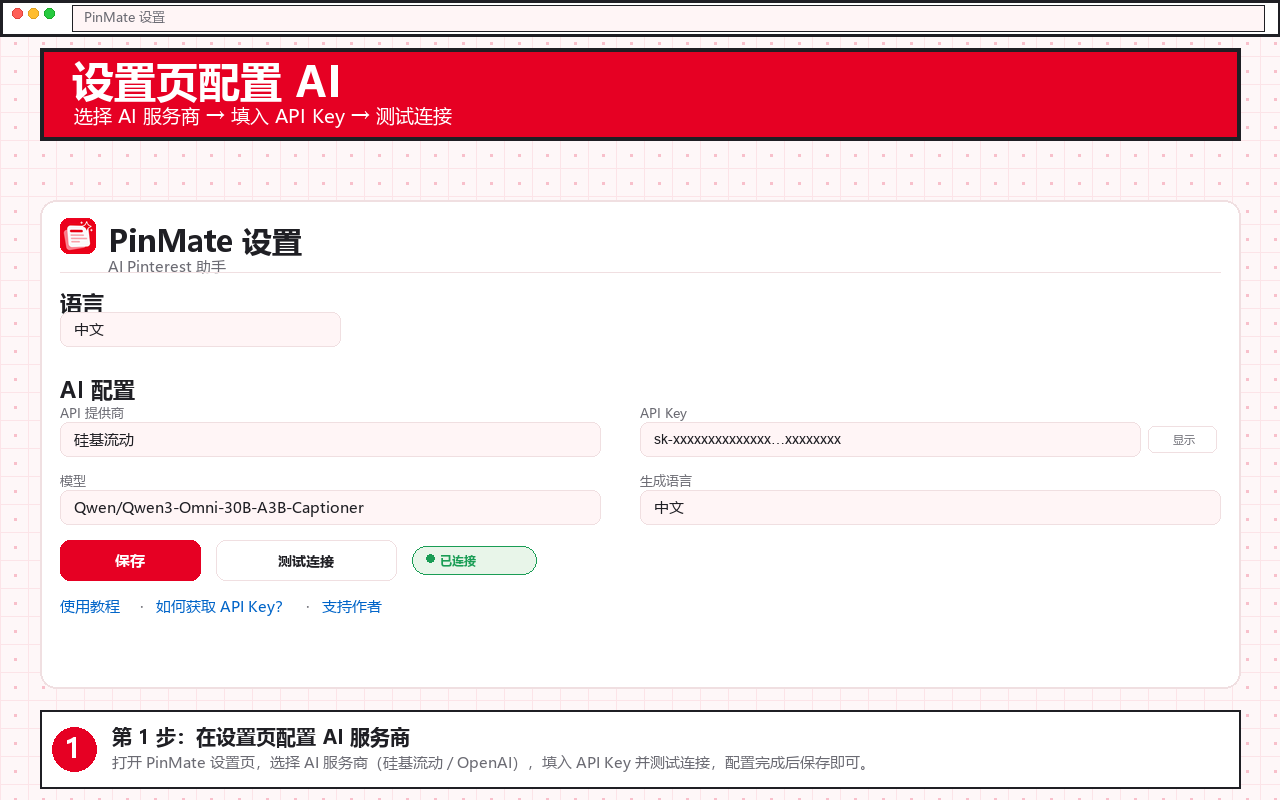
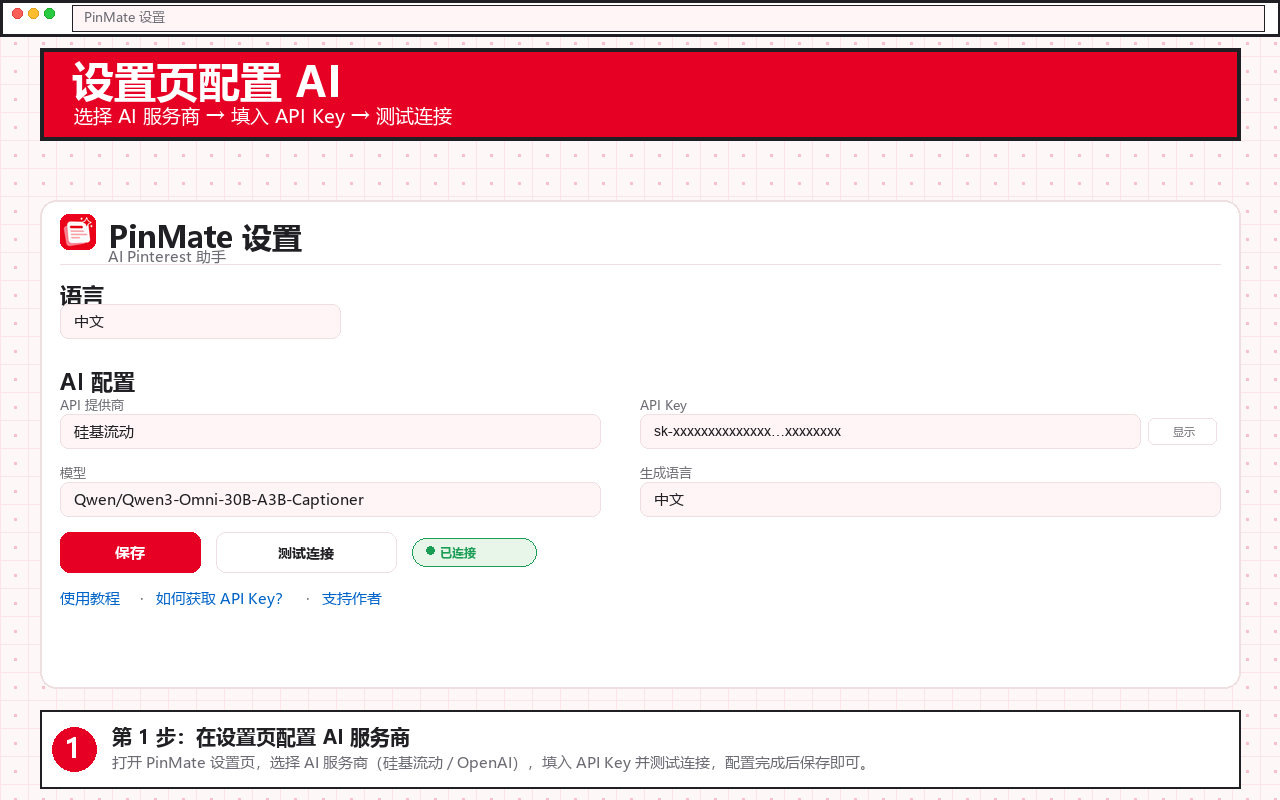
fix(store-assets): zh settings header spacing

diff --git a/assets/generate-store-screenshots.py b/assets/generate-store-screenshots.py
@@ -319,16 +319,26 @@ def settings_page(img, d, lang="zh"):
     inner_x = px0 + 20  # 60
 
     # Header: real extension logo + title (no red P box)
+    # Chinese only: shift header up slightly so sub-title does not touch divider
+    if lang == "zh":
+        logo_y = py0 + 14
+        title_y = py0 + 16
+        sub_y = py0 + 46
+        dy_div = py0 + 64
+    else:
+        logo_y = py0 + 18
+        title_y = py0 + 20
+        sub_y = py0 + 56
+        dy_div = py0 + 72
     logo = Image.open(ROOT / "assets" / "icons" / "icon128.png").convert("RGBA")
     logo = logo.resize((36, 36), Image.LANCZOS)
     lmask = Image.new("L", (36, 36), 0)
     ImageDraw.Draw(lmask).rounded_rectangle((0, 0, 35, 35), radius=8, fill=255)
-    img.paste(logo, (inner_x, py0 + 18), lmask)
+    img.paste(logo, (inner_x, logo_y), lmask)
     title_x = inner_x + 48
-    text(d, (title_x, py0 + 20), T["title"], f=f["h2"])
-    text(d, (title_x, py0 + 56), T["sub"], fill=C["sub"], f=f["small"])
+    text(d, (title_x, title_y), T["title"], f=f["h2"])
+    text(d, (title_x, sub_y), T["sub"], fill=C["sub"], f=f["small"])
 
-    dy_div = py0 + 72
     d.line([(inner_x, dy_div), (px1 - 20, dy_div)], fill=C["border"], width=1)
 
     # ── Language section ──
